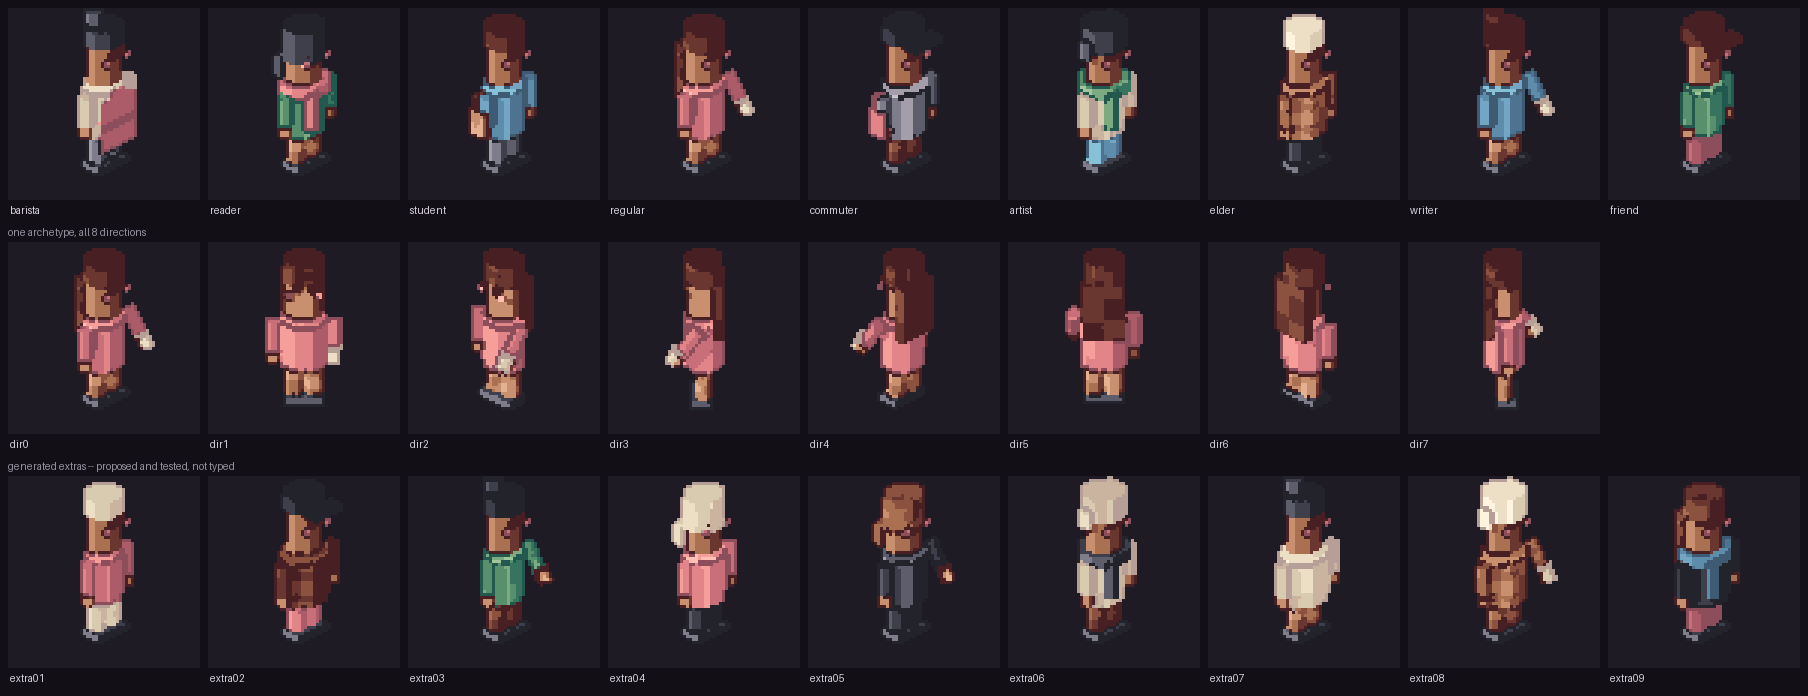
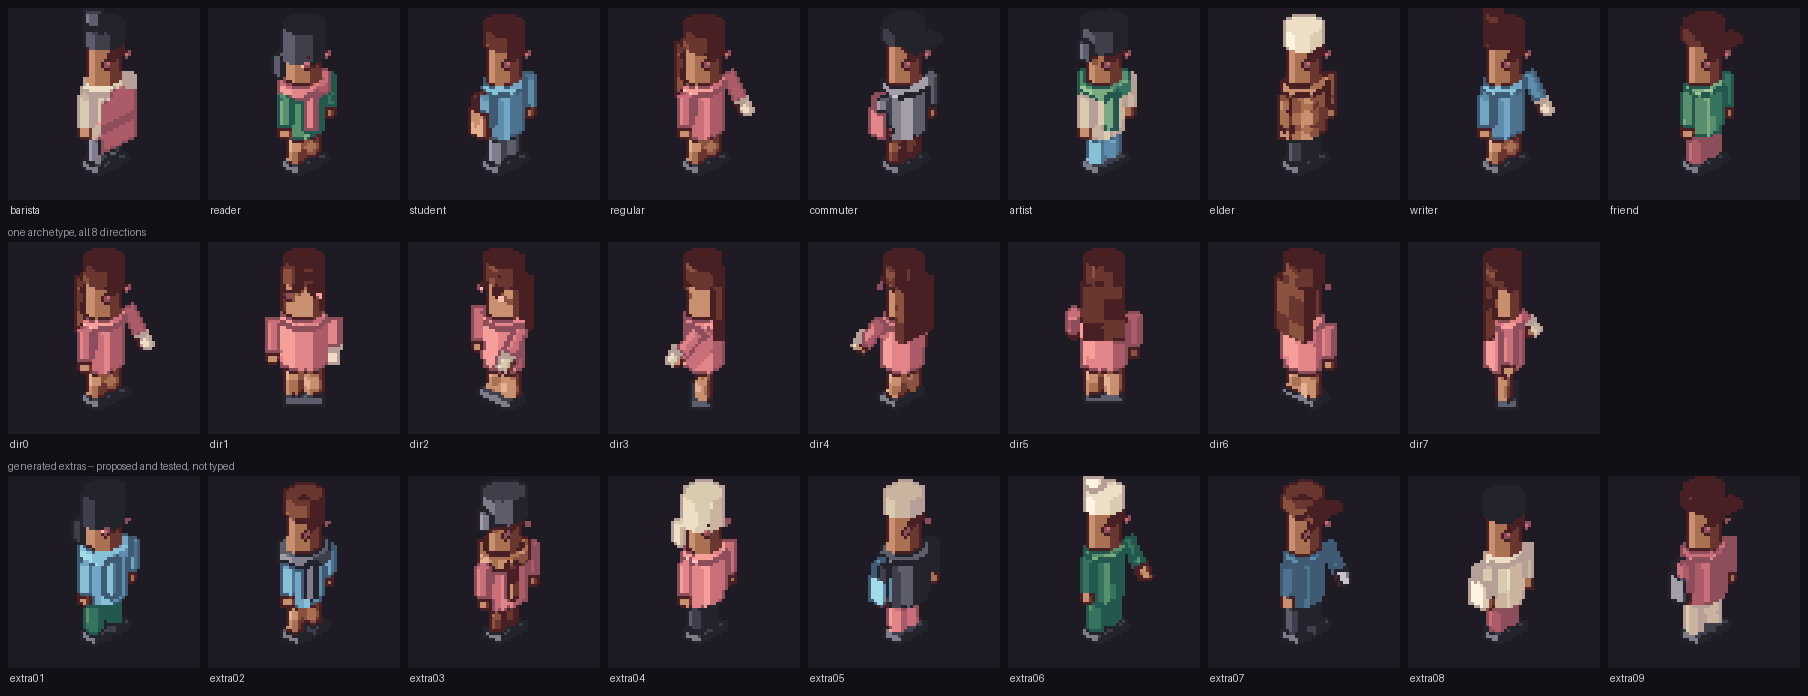
Leg length and stance, measured before they were given a range
Bulk was the only continuous shape parameter a character had, and seven of the
nine archetypes sit at exactly 1.0 of it, so two extras sharing hair and
accessory had almost nothing left to differ by.

Both new parameters were measured against the outline first, which is the
discipline the accessories had to be taught the hard way: 0.88 of leg is worth
4.5% over the eight sprite directions and a stance of 1.40 about 4%.

Leg length moves the hip rather than scaling the figure -- a scaled head reads
as a child, not as a tall person -- so the ankle stays on the floor and the
upper body rides up. Seated figures are unaffected, correctly, since hips sit
at the seat whatever the legs do, and the seated rig is unchanged to the vertex.

Generated cast closest pair 8.5% -> 10.1%, which is the generator's own
early-exit floor.

Claude-Session: https://claude.ai/code/session_01Q5KEMm7eqHrVgYtYGEkSmS

diff --git a/tools/character.py b/tools/character.py
@@ -62,11 +62,18 @@ ANKLE_Z = 0.10
 SEAT_Z = 0.45          # chair seat height; assetlib.chair() must agree
 
 
-def leg(sx: float, mat: str) -> Mesh:
+def leg(sx: float, mat: str, hip: float = HIP_Z) -> Mesh:
     """Leg shaft only, hip to ankle. Built per side so a walk cycle can swing
-    them independently -- a single two-leg mesh can only ever stand still."""
+    them independently -- a single two-leg mesh can only ever stand still.
+
+    `hip` rather than the module constant, because leg length is the one
+    proportion that changes a standing figure's outline without changing any
+    of its parts. The ankle stays where it is and the hip moves, which is what
+    varies between two adults; scaling the whole figure instead would scale the
+    head, and a scaled head reads as a child rather than as a tall person.
+    """
     m = Mesh()
-    m.add_prism((sx, 0.0, ANKLE_Z), 0.100, 0.098, HIP_Z - ANKLE_Z, mat, segments=8)
+    m.add_prism((sx, 0.0, ANKLE_Z), 0.100, 0.098, hip - ANKLE_Z, mat, segments=8)
     return m
 
 
@@ -84,16 +91,17 @@ def foot(sx: float) -> Mesh:
     return m
 
 
-def _ankle_offset(sx: float, degrees: float):
+def _ankle_offset(sx: float, degrees: float, hip: float = HIP_Z):
     """Where the ankle lands once the shaft has swung, as a translation."""
     probe = Mesh()
     probe.verts = [(sx, 0.0, ANKLE_Z)]
-    moved = pivot_rot(probe, "x", -degrees, (sx, 0.0, HIP_Z))
+    moved = pivot_rot(probe, "x", -degrees, (sx, 0.0, hip))
     ax, ay, az = moved.verts[0]
     return (0.0, ay, az - ANKLE_Z)
 
 
-def legs(mat: str, spread: float = 0.105, seated: bool = False) -> Mesh:
+def legs(mat: str, spread: float = 0.105, seated: bool = False,
+         hip: float = HIP_Z) -> Mesh:
     if seated:
         # Thighs forward (+y, the side the camera sees), shins down: a standing
         # figure parked at seat height reads as standing *on* the chair.
@@ -107,7 +115,7 @@ def legs(mat: str, spread: float = 0.105, seated: bool = False) -> Mesh:
             m.add_box((sx - 0.105, 0.16, -SEAT_Z),
                       (sx + 0.105, 0.40, -SEAT_Z + 0.08), "neutral-1")
         return m
-    return merge(leg(-spread, mat), leg(spread, mat))
+    return merge(leg(-spread, mat, hip), leg(spread, mat, hip))
 
 
 def torso(mat: str, bulk: float = 1.0) -> Mesh:
@@ -258,6 +266,14 @@ class CharacterSpec:
     trousers: str = "neutral"
     hair_style: str = "short"
     hair_mat: str = "neutral"
+    # Leg length and stance width, as multipliers. Before these, `bulk` was
+    # the only continuous shape parameter a character had, and seven of the
+    # nine hand-written archetypes sit at exactly 1.0 of it -- so two extras
+    # with the same hair and accessory had almost nothing left to differ by.
+    # Both are deliberately small ranges: this is a cast of adults in a cafe,
+    # not a fantasy party.
+    leg_len: float = 1.0
+    stance: float = 1.0
     accessory_kind: str | None = None
     accessory_mat: str = "rose"
     bulk: float = 1.0
@@ -295,7 +311,9 @@ REST = Pose()
 def build(spec: CharacterSpec, seated: bool = False,
           pose: Pose | None = None) -> Mesh:
     p = pose or REST
-    spread = 0.105
+    spread = 0.105 * spec.stance
+    hip = ANKLE_Z + (HIP_Z - ANKLE_Z) * spec.leg_len
+    dz = hip - HIP_Z          # how far the whole upper body rides up or down
     x = TORSO_RX * spec.bulk + 0.052
 
     upper = [
@@ -308,18 +326,23 @@ def build(spec: CharacterSpec, seated: bool = False,
     if spec.accessory_kind and not held:
         upper.append(accessory(spec.accessory_kind, spec.accessory_mat))
     body = merge(*upper)
+    if dz:
+        body = transformed(body, at=(0.0, 0.0, dz))
     if p.turn:
-        body = pivot_rot(body, "z", p.turn, (0.0, 0.0, HIP_Z))
+        body = pivot_rot(body, "z", p.turn, (0.0, 0.0, hip))
     if p.lean:
-        body = pivot_rot(body, "x", -p.lean, (0.0, 0.0, HIP_Z))
+        body = pivot_rot(body, "x", -p.lean, (0.0, 0.0, hip))
 
     def posed_arm(sx, swing, out, carried=None):
         a = arm(sx, spec.shirt, spec.skin)
         if carried is not None:
             a = merge(a, carried)
+        if dz:
+            a = transformed(a, at=(0.0, 0.0, dz))
+        sz = SHOULDER_Z + dz
         if out:
-            a = pivot_rot(a, "y", out if sx > 0 else -out, (sx, 0.0, SHOULDER_Z))
-        return pivot_rot(a, "x", -swing, (sx, 0.0, SHOULDER_Z))
+            a = pivot_rot(a, "y", out if sx > 0 else -out, (sx, 0.0, sz))
+        return pivot_rot(a, "x", -swing, (sx, 0.0, sz))
 
     limbs = [posed_arm(-x, p.arm_l + (CARRY_SWING if held else 0.0), p.out_l,
                        accessory(spec.accessory_kind, spec.accessory_mat, -x)
@@ -332,8 +355,8 @@ def build(spec: CharacterSpec, seated: bool = False,
         # standing torso on top of folded legs and produced a seated figure
         # 2.24 tall against a standing 1.72 -- taller sitting down than up.
         drop = (0.0, 0.0, -HIP_Z)
-        out = merge(legs(spec.trousers, seated=True),
-                    transformed(body, at=drop),
+        out = merge(legs(spec.trousers, spread, seated=True),
+                    transformed(body, at=(0.0, 0.0, -HIP_Z - dz)),
                     *(transformed(l, at=drop) for l in limbs))
         # Ground-clamped like the standing rig. The seated parts are authored
         # around the hips, so the mesh hung 0.52 below the origin and every
@@ -345,8 +368,9 @@ def build(spec: CharacterSpec, seated: bool = False,
         low = min(v[2] for v in out.verts)
         return transformed(out, at=(0.0, 0.0, p.bob - low))
     for sx, ang in ((-spread, p.leg_l), (spread, p.leg_r)):
-        limbs.append(pivot_rot(leg(sx, spec.trousers), "x", -ang, (sx, 0.0, HIP_Z)))
-        limbs.append(transformed(foot(sx), at=_ankle_offset(sx, ang)))
+        limbs.append(pivot_rot(leg(sx, spec.trousers, hip), "x", -ang,
+                               (sx, 0.0, hip)))
+        limbs.append(transformed(foot(sx), at=_ankle_offset(sx, ang, hip)))
     out = merge(body, *limbs)
     # Ground-clamp. Swinging a leg about its hip arcs the foot below z=0, so a
     # posed figure sinks into the floor -- measured at -0.04 on a mid-stride
@@ -545,7 +569,14 @@ def generate_spec(seed: int, ramps=None, tries: int = 60) -> CharacterSpec:
             hair_style=pick(HAIR_STYLES), hair_mat=pick(HAIR_MATS),
             accessory_kind=acc,
             accessory_mat=pick(GARMENT_RAMPS) + pick(("", "-1", "+1")),
-            bulk=0.90 + rnd() * 0.30)
+            bulk=0.90 + rnd() * 0.30,
+            # Measured against the outline before being given a range, the way
+            # the accessories had to be. Over the eight sprite directions a
+            # leg_len of 0.88 is worth 4.5% against a default figure and a
+            # stance of 1.40 about 4%, which is the same order as an accessory
+            # and enough to separate two extras that share hair and hands.
+            leg_len=0.88 + rnd() * 0.26,
+            stance=0.82 + rnd() * 0.58)
         if not (check_contrast(ramps, [spec]) + check_palette_spread([spec])
                 + check_waistline(ramps, [spec])):
             return spec

diff --git a/ART_CRITIQUE.md b/ART_CRITIQUE.md
@@ -1376,7 +1376,7 @@ downstream.
 | generator range | unmeasured | **measured, per generator, with a floor each** |
 | the seam stages 1–3 attach to | described | **built, and checked from both ends** |
 | automated checks in the ratchet | 11 | **18** |
-| closest pair in the cast, by outline alone | 0.0% and 4.3%, unmeasured | **8.5% and 10.0%** |
+| closest pair in the cast, by outline alone | 0.0% and 4.3%, unmeasured | **10.1% and 10.0%** |
 
 Median L, chroma and the extremes are unmoved, the checks stay clean, and the
 render is still byte-identical across processes.
@@ -1392,10 +1392,24 @@ render is still byte-identical across processes.
   style is *distinguishable* rather than merely present: the scarf went from
   0.0% to 10.7% of outline, which proves it exists, not that a player can tell
   it from a collar. That needs a different instrument.
-- Bulk is the only continuous shape parameter a generated extra has, and seven
-  of the nine hand-written archetypes sit at exactly 1.0. Height, limb length
-  and stance are all fixed, so two extras with the same hair and accessory have
-  very little left to differ by.
+### Two more numbers a character is allowed to be
+
+Bulk had been the only continuous shape parameter a character has, and seven of
+the nine archetypes sit at exactly 1.0 of it. `leg_len` and `stance` are the
+other two, both measured against the outline before being given a range rather
+than after — the discipline the accessories had to be taught: 0.88 of leg is
+worth 4.5% and a stance of 1.40 about 4%, the same order as an accessory.
+
+Leg length moves the *hip*, not the figure. Scaling the whole character would
+scale the head, and a scaled head reads as a child rather than as a tall
+person; the ankle stays on the floor and everything above the hip rides up. It
+does nothing at all when seated, which is correct — hips sit at the seat
+whatever the legs are — and the seated rig is unchanged to the vertex.
+
+The generated cast's closest pair went from 8.5% to **10.1%**, which is the
+generator's own early-exit floor, so the solver is now working right up to its
+target. Raising that floor to 14% buys 0.8 of a point for three times the
+search, which is where this stops paying.
 - `ingest.py` binds an arbitrary mesh to the palette and the tile grid, so the
   seam stages 1–3 attach to now exists and is checked. Nothing feeds it yet,
   which is exactly why it needed checks: an adapter that is never exercised is
